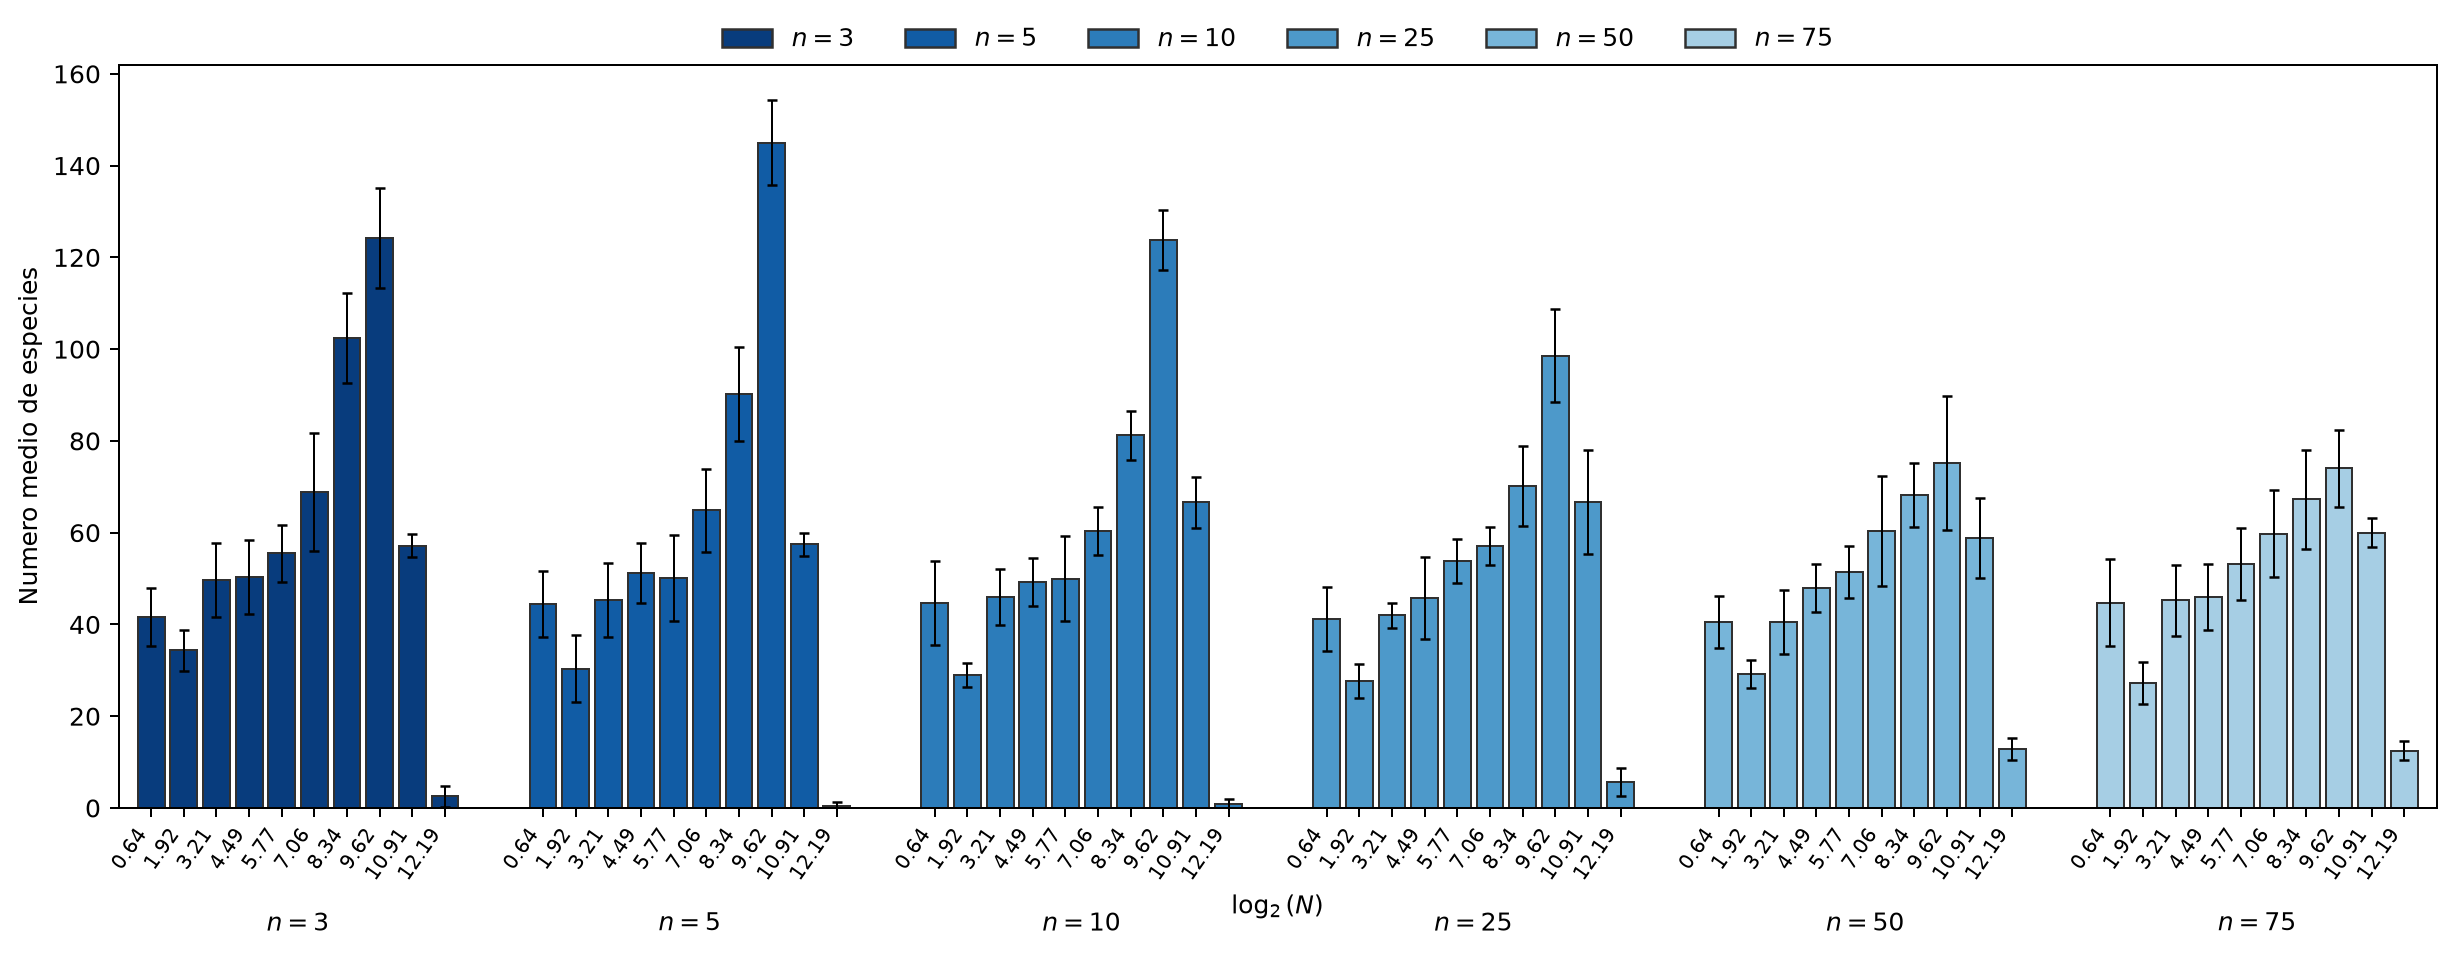
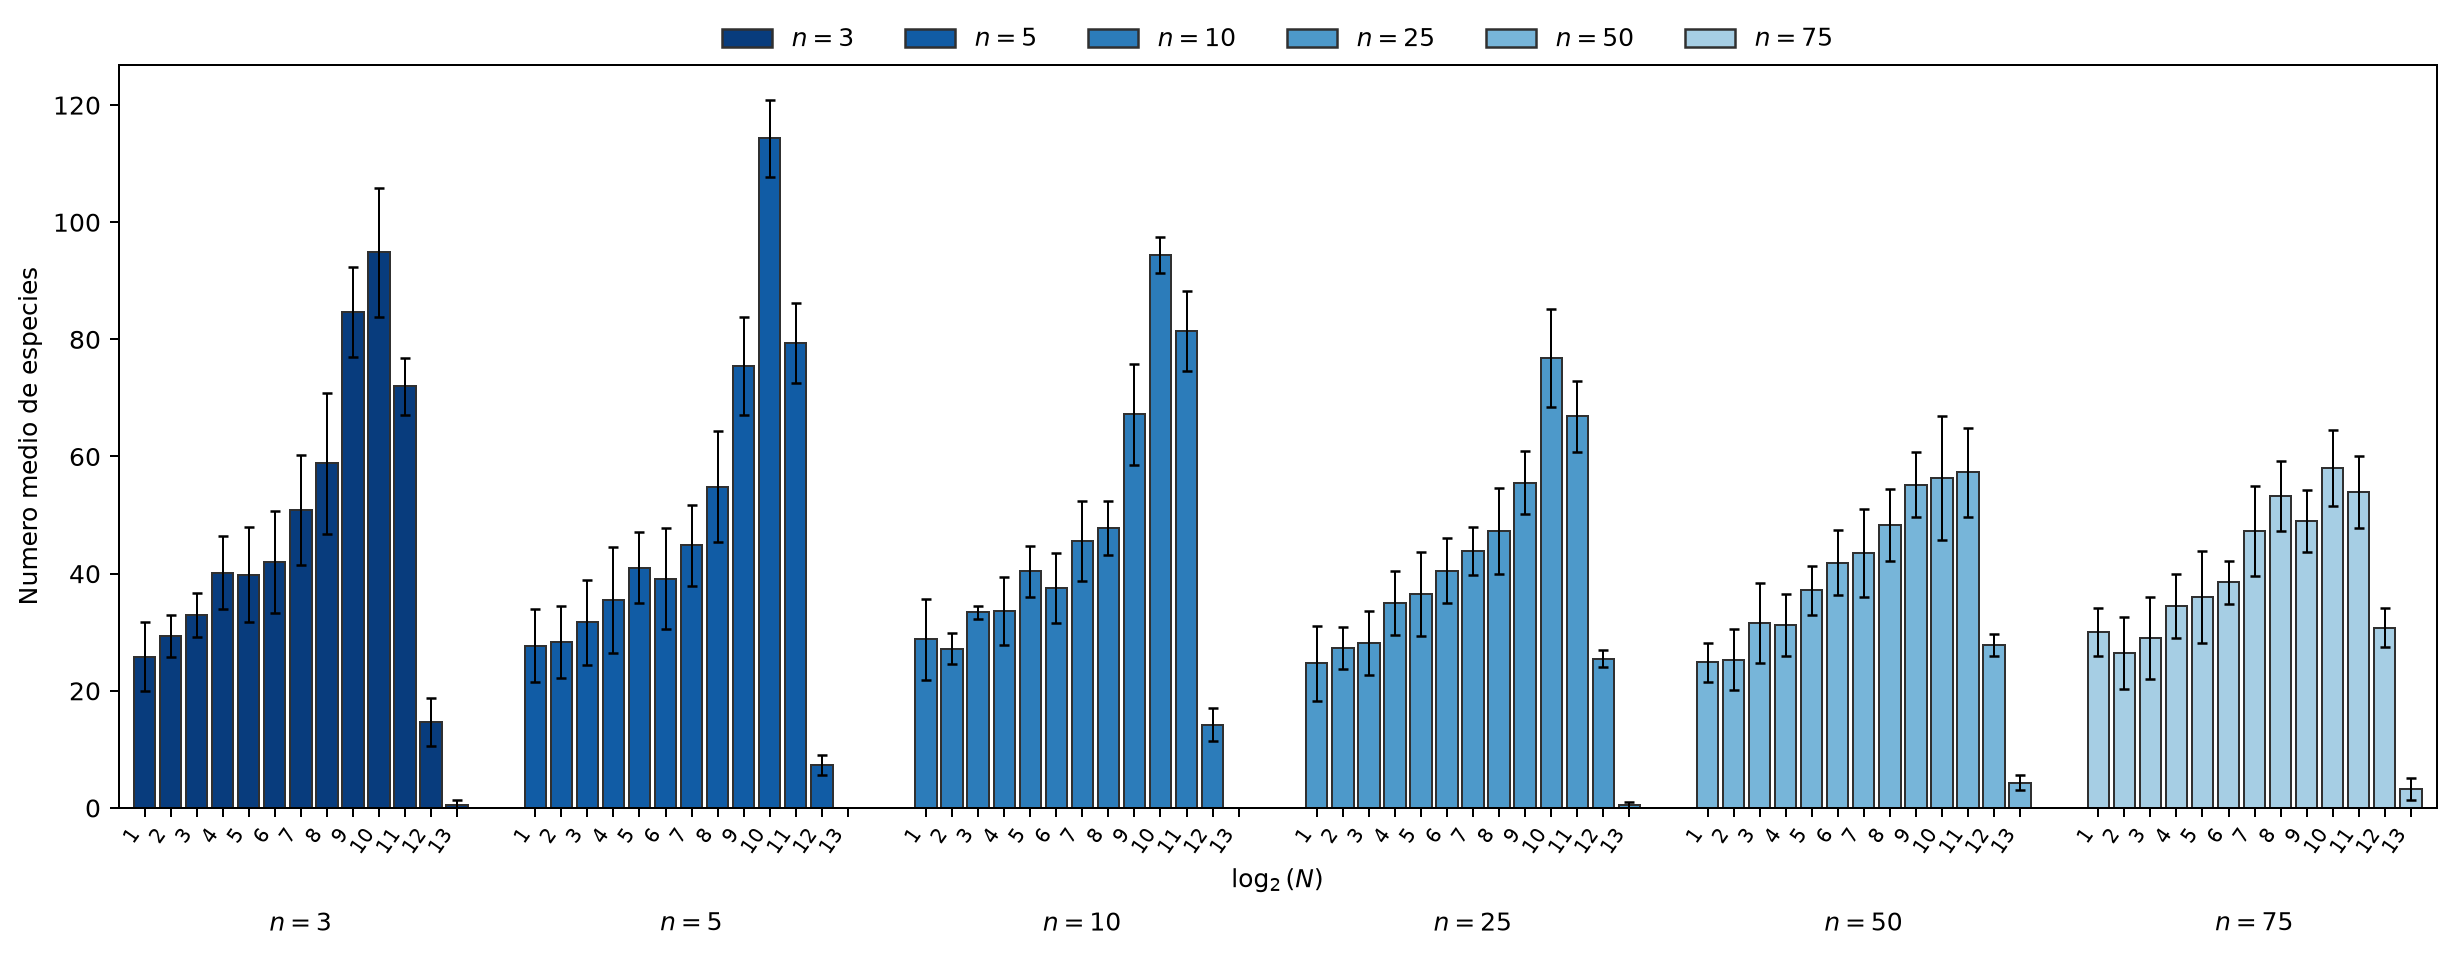
Adiciona comparação SAD e atualiza Preston

diff --git a/resultados/index.html b/resultados/index.html
@@ -17,7 +17,7 @@
   <header><h1>Painel de resultados NRK</h1><p>Explore e compare as análises ecológicas.</p></header>
   <main>
     <section class="controles">
-      <label>Tipo<select id="tipo"><option value="individual">Espécies × tempo — individual</option><option value="media">Espécies × tempo — média</option><option value="pop_nrk_individual">População × NRK — individual</option><option value="pop_nrk_media">População × NRK — média</option><option value="sad_preston">SAD — Preston</option></select></label>
+      <label>Tipo<select id="tipo"><option value="individual">Espécies × tempo — individual</option><option value="media">Espécies × tempo — média</option><option value="pop_nrk_individual">População × NRK — individual</option><option value="pop_nrk_media">População × NRK — média</option><option value="sad_preston">SAD — Preston</option><option value="comparacao_sad">SAD — Lognormal × Preston</option></select></label>
       <label data-ciclo>Ciclo<select id="ciclo"></select></label>
       <label>h<select id="h"></select></label>
       <label data-nrk>NRK<select id="nrk"></select></label>
@@ -40,7 +40,8 @@
       if(tipo.value==='media')return{titulo:`Média — h${H}`,arquivo:`MEDIAS/W4.0_h${H}_MEDIA.png`};
       if(tipo.value==='pop_nrk_individual')return{titulo:`População × NRK — ${ciclo.value}`,arquivo:`POP_X_NRK/INDIVIDUAIS/${ciclo.value}/populacao_x_NRK_W4.png`};
       if(tipo.value==='pop_nrk_media')return{titulo:'População × NRK — média',arquivo:'POP_X_NRK/MEDIAS/populacao_x_NRK_W4_MEDIA.png'};
-      return{titulo:`SAD — Preston — h${H}`,arquivo:`SAD_PRESTON/W4.0_h${H}_SAD_PRESTON.png`};
+      if(tipo.value==='sad_preston')return{titulo:`SAD — Preston — h${H}`,arquivo:`SAD_PRESTON/W4.0_h${H}_SAD_PRESTON.png`};
+      return{titulo:`SAD — Lognormal × Preston — h${H}`,arquivo:`COMPARACAO_SAD/W4.0_h${H}_SAD_LN_X_PRESTON.png`};
     }
     function vazio(){if(!galeria.querySelector('.cartao'))galeria.innerHTML='<div class="vazio">Escolha os parâmetros e adicione uma figura.</div>'}
     function adicionar(){const x=item();galeria.querySelector('.vazio')?.remove();if(galeria.querySelector(`[data-arquivo="${x.arquivo}"]`))return;const card=document.createElement('article');card.className='cartao';card.dataset.arquivo=x.arquivo;const titulo=document.createElement('h2');titulo.textContent=x.titulo;const img=document.createElement('img');img.src=x.arquivo;img.alt=x.titulo;img.loading='lazy';img.onerror=()=>{img.replaceWith(Object.assign(document.createElement('div'),{className:'erro',textContent:'Figura não disponível para esta combinação.'}))};const acoes=document.createElement('div');acoes.className='acoes';const abrir=document.createElement('a');abrir.href=x.arquivo;abrir.target='_blank';abrir.textContent='Abrir separadamente';const remover=document.createElement('button');remover.type='button';remover.textContent='Remover';remover.onclick=()=>{card.remove();vazio()};acoes.append(abrir,remover);card.append(titulo,img,acoes);galeria.append(card)}
